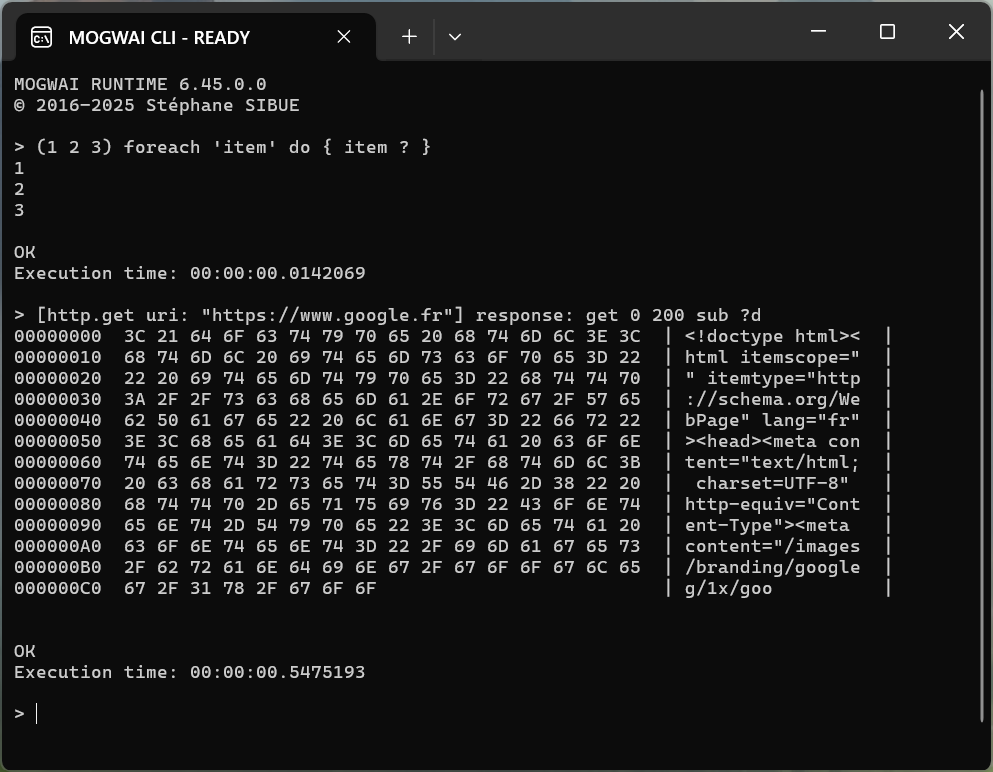
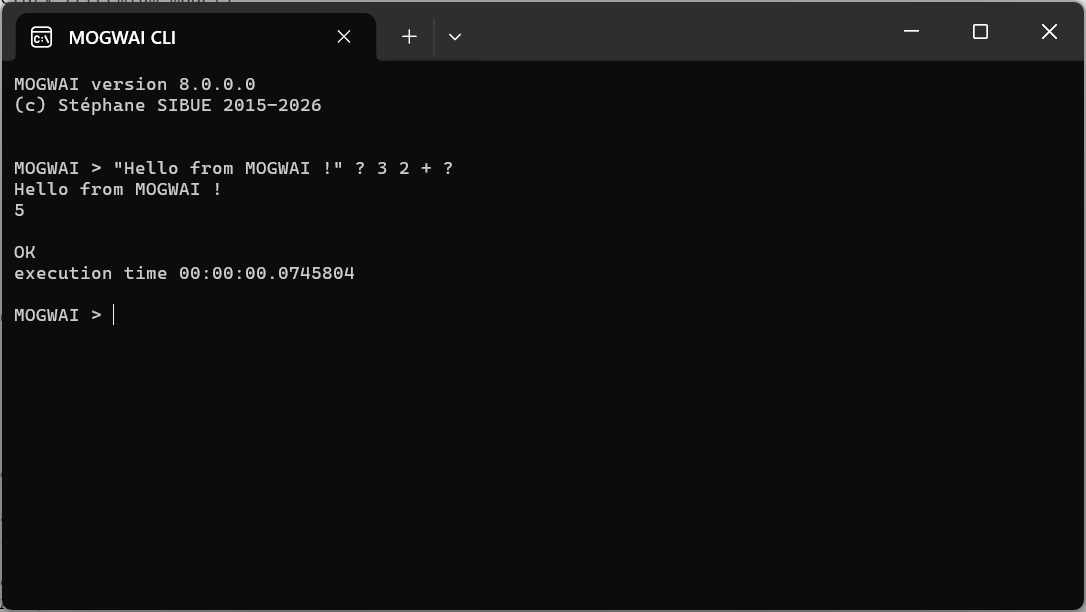
Replace README placeholders with images
Replace HTML comment screenshot/placeholders in the main README and example README files with actual image links. Update example READMEs to reference images under images/, fix a small bullet formatting in the WinForms README, and update the assets: modify images/img02.png and add images/img03.png and images/img05.png.

diff --git a/README.md b/README.md
@@ -1,15 +1,6 @@
 # MOGWAI
 
-<!-- 
-═══════════════════════════════════════════════════════════════════════
-📸 BANNER IMAGE PLACEHOLDER
-═══════════════════════════════════════════════════════════════════════
-Replace with: Logo + tagline banner
-Suggested: MOGWAI logo with "Stack-Based RPN Scripting for .NET"
-Size: 1200x300px recommended
-File: /images/banner.png
-═══════════════════════════════════════════════════════════════════════
--->
+![MOGWAI](./Images/img01.png)
 
 **A powerful stack-based RPN scripting language for industrial IoT automation, embedded systems, and .NET applications.**
 
@@ -92,14 +83,7 @@ var result = await engine.RunAsync(@"
 ", debugMode: false);
 ```
 
-<!-- 
-═══════════════════════════════════════════════════════════════════════
-📸 SCREENSHOT PLACEHOLDER
-═══════════════════════════════════════════════════════════════════════
-Replace with: Screenshot of console output showing "Hello from MOGWAI!" and "5"
-File: /images/quickstart-console.png
-═══════════════════════════════════════════════════════════════════════
--->
+![MOGWAI](./Images/img02.png)
 
 ### MOGWAI Language Example
 
@@ -203,15 +187,7 @@ Examples are available :
 
 ## MOGWAI STUDIO (Coming Soon)
 
-<!-- 
-═══════════════════════════════════════════════════════════════════════
-📸 SCREENSHOT PLACEHOLDER
-═══════════════════════════════════════════════════════════════════════
-Replace with: Screenshot of MOGWAI STUDIO IDE interface
-Showing: Code editor, debugger, variable inspector, stack visualization
-File: /images/studio-screenshot.png
-═══════════════════════════════════════════════════════════════════════
--->
+![MOGWAI](./Images/img04.png)
 
 MOGWAI STUDIO is a visual IDE for MOGWAI development currently in active development.
 
@@ -252,15 +228,7 @@ if (temp 25 >) then
 }
 ```
 
-<!-- 
-═══════════════════════════════════════════════════════════════════════
-📸 SCREENSHOT PLACEHOLDER
-═══════════════════════════════════════════════════════════════════════
-Replace with: Diagram or photo of MOGWAI controlling IoT devices
-Example: COMETA astronomical clocks, BLE sensors, etc.
-File: /images/iot-usecase.png
-═══════════════════════════════════════════════════════════════════════
--->
+![MOGWAI](./Images/img07.png)
 
 ### Embedded Applications
 
@@ -272,14 +240,7 @@ File: /images/iot-usecase.png
 "Square complete!" ?
 ```
 
-<!-- 
-═══════════════════════════════════════════════════════════════════════
-📸 SCREENSHOT PLACEHOLDER
-═══════════════════════════════════════════════════════════════════════
-Replace with: Screenshot of WinForms turtle graphics example
-File: /images/turtle-graphics.png
-═══════════════════════════════════════════════════════════════════════
--->
+![MOGWAI](./Images/img05.png)
 
 ---
 

diff --git a/examples/WinForms/WinFormsExample/README.md b/examples/WinForms/WinFormsExample/README.md
@@ -2,15 +2,7 @@
 
 A Windows Forms application demonstrating MOGWAI integration with turtle graphics and visual scripting.
 
-<!-- 
-═══════════════════════════════════════════════════════════════════════
-📸 SCREENSHOT PLACEHOLDER
-═══════════════════════════════════════════════════════════════════════
-Replace with: Screenshot of WinForms app showing turtle graphics output
-Example: Turtle drawing geometric patterns or fractals
-File: /images/examples/winforms-turtle.png
-═══════════════════════════════════════════════════════════════════════
--->
+![WinForms MOGWAI Turtle Graphics](../../../images/img05.png)
 
 ---
 
@@ -19,7 +11,7 @@ File: /images/examples/winforms-turtle.png
 - **Turtle Graphics** - Logo-style drawing with MOGWAI scripts
 - **Visual Output** - Real-time rendering of turtle movements
 - **Code Editor** - Built-in editor with syntax highlighting
-- ▶**Run/Stop Controls** - Execute scripts with visual feedback
+- **Run/Stop Controls** - Execute scripts with visual feedback
 - **STUDIO Integration** - Connect to MOGWAI STUDIO for debugging
 - **Custom Functions** - Turtle-specific MOGWAI commands
 - **Save/Load Scripts** - Manage your turtle graphics programs

diff --git a/examples/MAUI/MauiExample/README.md b/examples/MAUI/MauiExample/README.md
@@ -2,15 +2,7 @@
 
 A simple cross-platform MOGWAI script editor for mobile and desktop platforms.
 
-<!-- 
-═══════════════════════════════════════════════════════════════════════
-📸 SCREENSHOT PLACEHOLDER
-═══════════════════════════════════════════════════════════════════════
-Replace with: Screenshot of MAUI app running on multiple platforms
-Example: Side-by-side Windows/Android/iOS screenshots showing the code editor
-File: /images/examples/maui-multiplatform.png
-═══════════════════════════════════════════════════════════════════════
--->
+![MAUI Runtime Screenshot](../../../images/img03.png)]
 
 ---
 

diff --git a/examples/Console/ConsoleExample/README.md b/examples/Console/ConsoleExample/README.md
@@ -2,14 +2,7 @@
 
 A command-line interface and REPL (Read-Eval-Print-Loop) for interactive MOGWAI scripting.
 
-<!-- 
-═══════════════════════════════════════════════════════════════════════
-📸 SCREENSHOT PLACEHOLDER
-═══════════════════════════════════════════════════════════════════════
-Replace with: Screenshot of MOGWAI CLI in action showing REPL session
-File: /images/examples/cli-screenshot.png
-═══════════════════════════════════════════════════════════════════════
--->
+![MOGWAI](../../../images/img02.png)
 
 ---
 
